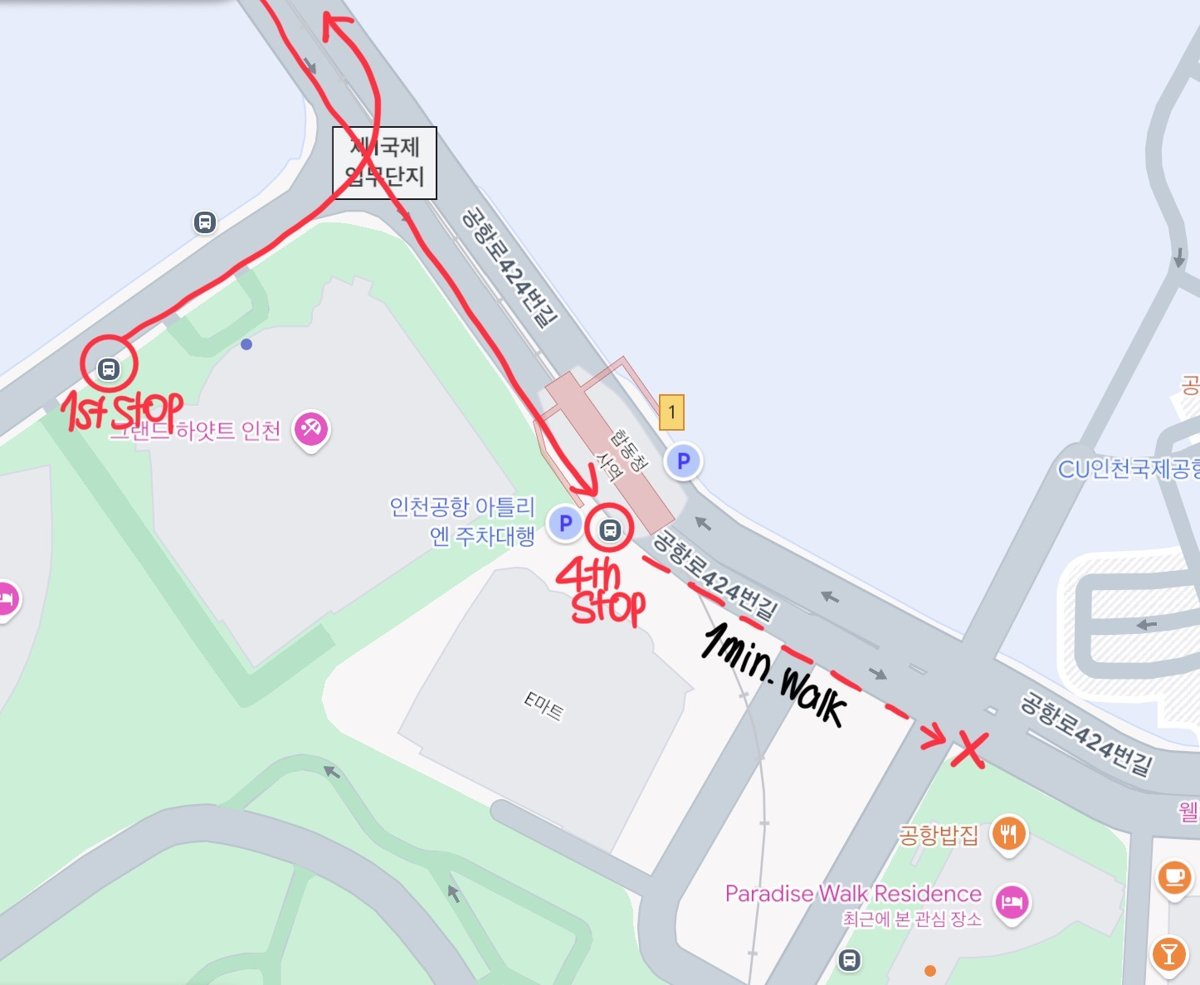
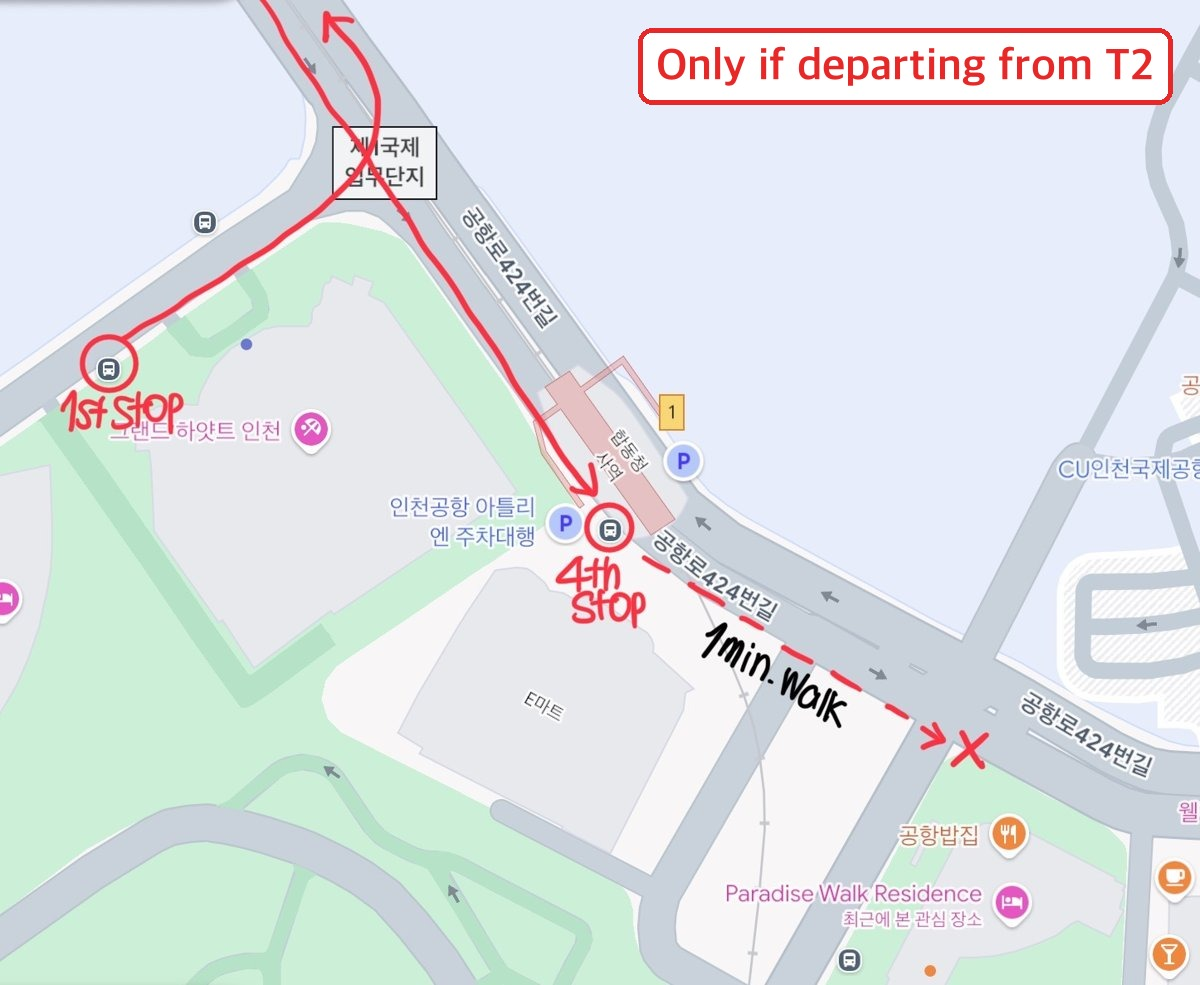
feat: T2 하차 지도에 'T2 출발일 경우에만 해당' 라벨 — 4개 언어판(ko/en/ja/zh) 분리, index·long은 언어 전환 시 이미지 교체, appt2026-ko는 한국어판 (클라라 승인)

Changed region(s): [[0.5242, 0.0305, 0.9867, 0.1218]]

diff --git a/long.html b/long.html
@@ -345,7 +345,7 @@ footer .fm{font-family:var(--mono);letter-spacing:2px;color:var(--ink);font-weig
     </div>
 
     <div class="photo map">
-      <img src="assets/images/Map-t2-4th-stop.jpg?v=2" alt="Map — 1st and 4th Hyatt stops; get off at the 4th, then a 1-minute walk to the crosswalk" loading="lazy" decoding="async">
+      <img id="t2map" src="assets/images/Map-t2-4th-stop.jpg?v=3" alt="Map — 1st and 4th Hyatt stops; get off at the 4th, then a 1-minute walk to the crosswalk" loading="lazy" decoding="async">
       <div class="cap" data-i18n="cap.t2map">The 1st stop is also a Grand Hyatt stop, but the 4th stop is closer — please get off at the 4th.</div>
     </div>
 
@@ -1214,6 +1214,8 @@ footer .fm{font-family:var(--mono);letter-spacing:2px;color:var(--ink);font-weig
       var dict = I18N[lang];
       el.innerHTML = (lang === 'en' || !dict || dict[k] == null) ? base[k] : dict[k];
     });
+    var t2 = document.getElementById('t2map');   // T2 하차 지도 — 언어별 라벨판 (2026-09-18)
+    if (t2) t2.src = 'assets/images/Map-t2-4th-stop' + (lang === 'en' ? '' : '.' + lang) + '.jpg?v=3';
     renderAround(lang);
     document.documentElement.lang = lang;
     for (var i=0;i<btns.length;i++){ btns[i].classList.toggle('active', btns[i].getAttribute('data-lang') === lang); }

diff --git a/index.html b/index.html
@@ -282,7 +282,7 @@ footer .fm{font-family:var(--mono);letter-spacing:2px;color:var(--ink2);font-siz
     </div>
 
     <div class="photo map">
-      <img src="assets/images/Map-t2-4th-stop.jpg?v=2" alt="Map — 1st and 4th Hyatt stops; get off at the 4th, then a 1-minute walk to the crosswalk" loading="lazy" decoding="async">
+      <img id="t2map" src="assets/images/Map-t2-4th-stop.jpg?v=3" alt="Map — 1st and 4th Hyatt stops; get off at the 4th, then a 1-minute walk to the crosswalk" loading="lazy" decoding="async">
       <div class="cap" data-i18n="cap.t2map">The 1st stop is also a Grand Hyatt stop, but the 4th stop is closer — please get off at the 4th.</div>
     </div>
 
@@ -730,6 +730,8 @@ footer .fm{font-family:var(--mono);letter-spacing:2px;color:var(--ink2);font-siz
       var dict = I18N[lang];
       el.innerHTML = (lang === 'en' || !dict || dict[k] == null) ? base[k] : dict[k];
     });
+    var t2 = document.getElementById('t2map');   // T2 하차 지도 — 언어별 라벨판 (2026-09-18)
+    if (t2) t2.src = 'assets/images/Map-t2-4th-stop' + (lang === 'en' ? '' : '.' + lang) + '.jpg?v=3';
     renderAround(lang);
     document.documentElement.lang = lang;
     for (var i=0;i<btns.length;i++){ btns[i].classList.toggle('active', btns[i].getAttribute('data-lang') === lang); }

diff --git a/appt2026-ko.html b/appt2026-ko.html
@@ -363,7 +363,7 @@ footer .fm{font-family:var(--mono);letter-spacing:2px;color:var(--ink);font-weig
     </div>
 
     <div class="photo map">
-      <img src="assets/images/Map-t2-4th-stop.jpg?v=2" alt="지도 — 하얏트 첫 번째·네 번째 정류장, 네 번째 정류장 하차 후 횡단보도까지 도보 1분" loading="lazy" decoding="async">
+      <img src="assets/images/Map-t2-4th-stop.ko.jpg?v=3" alt="지도 — 하얏트 첫 번째·네 번째 정류장, 네 번째 정류장 하차 후 횡단보도까지 도보 1분" loading="lazy" decoding="async">
       <div class="cap">첫 번째 정류장도 하얏트 정류장이지만, 더 가까운 네 번째 정류장에서 하차해 주시기 바랍니다</div>
     </div>
 

diff --git a/appt2026.html b/appt2026.html
@@ -367,7 +367,7 @@ footer .fm{font-family:var(--mono);letter-spacing:2px;color:var(--ink);font-weig
     </div>
 
     <div class="photo map">
-      <img src="assets/images/Map-t2-4th-stop.jpg?v=2" alt="Map — 1st and 4th Hyatt stops; get off at the 4th, then a 1-minute walk to the crosswalk" loading="lazy" decoding="async">
+      <img src="assets/images/Map-t2-4th-stop.jpg?v=3" alt="Map — 1st and 4th Hyatt stops; get off at the 4th, then a 1-minute walk to the crosswalk" loading="lazy" decoding="async">
       <div class="cap" data-i18n="cap.t2map">The 1st stop is also a Grand Hyatt stop, but the 4th stop is closer — please get off at the 4th.</div>
     </div>
 
